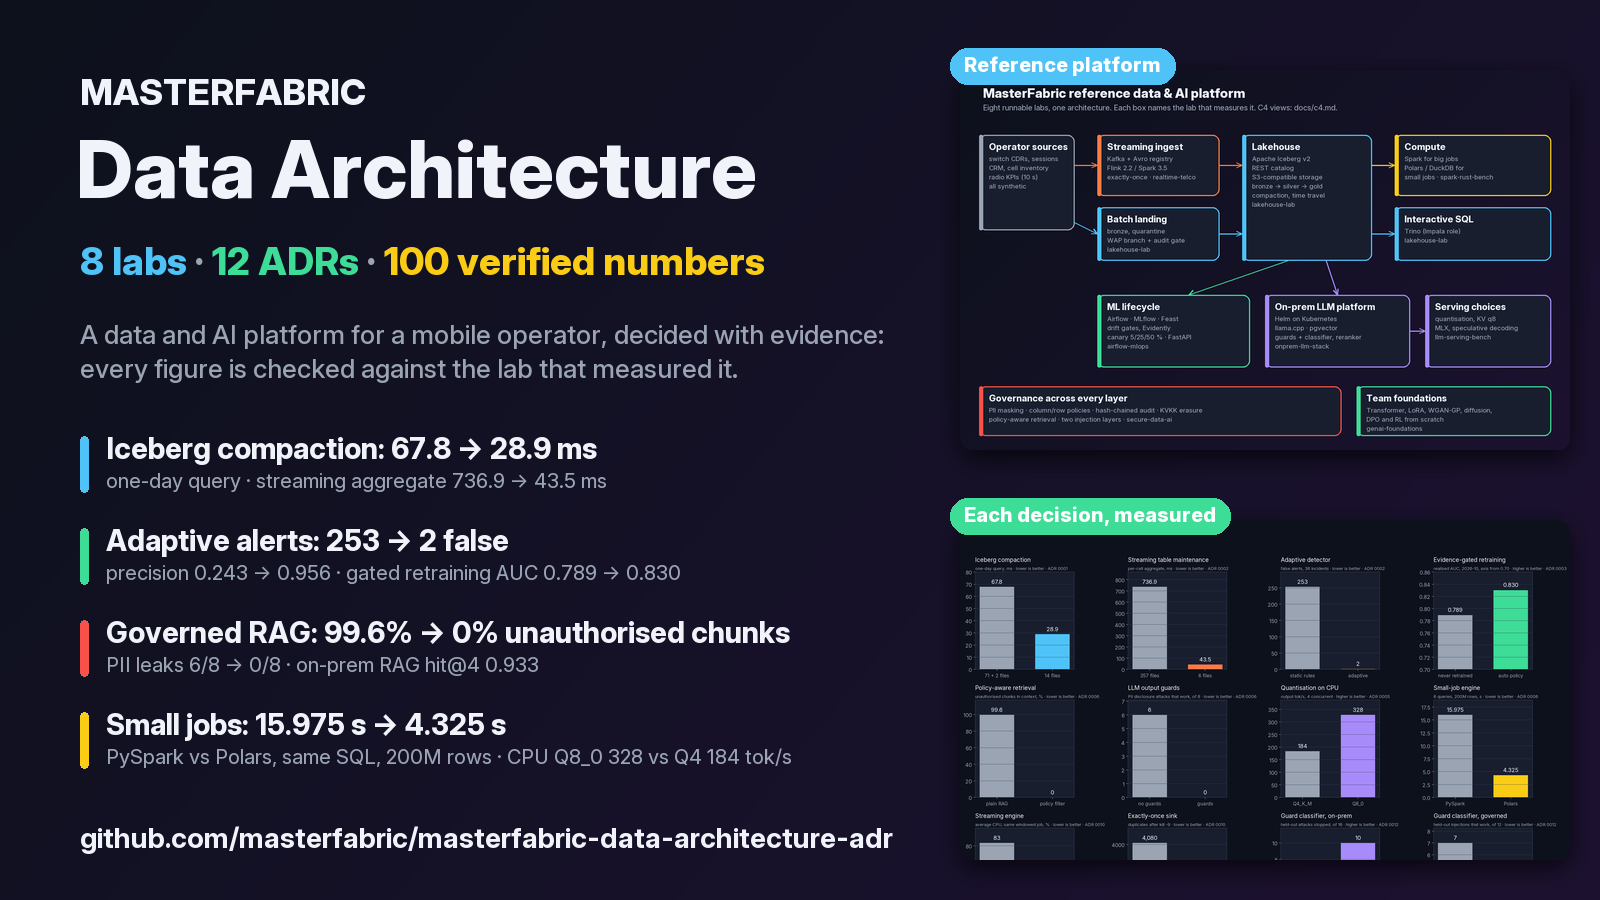
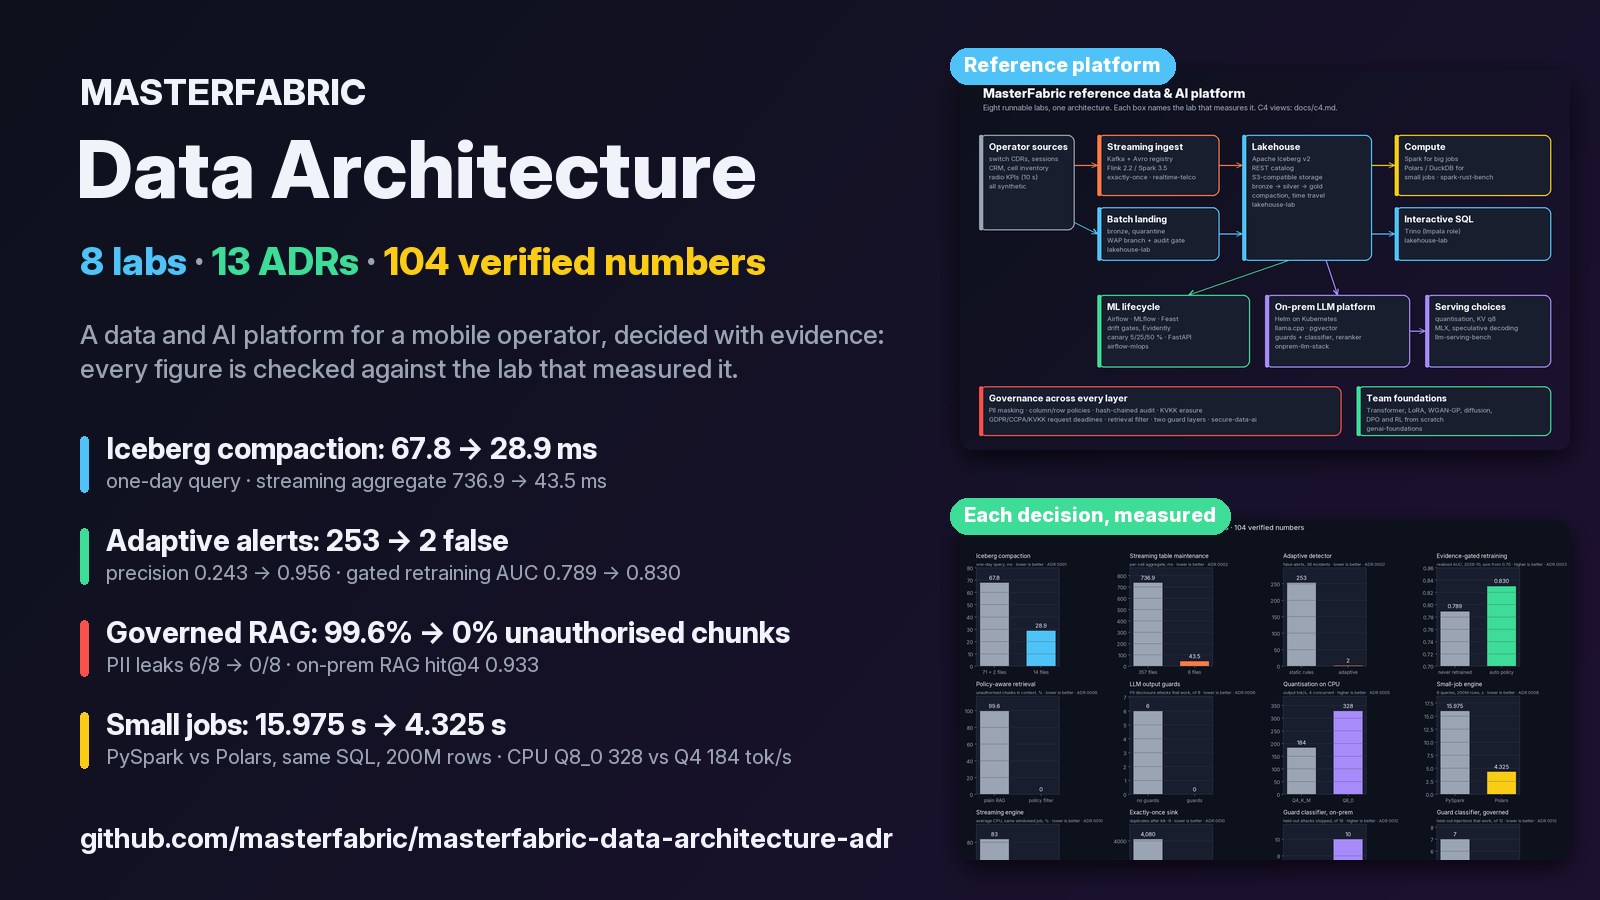
charts: evidence panel for ADR 0013, counts in the title; hero with 13 ADRs and 104 verified numbers

diff --git a/viz/make_charts.py b/viz/make_charts.py
@@ -38,6 +38,8 @@ PANELS = [
      "+ classifier", C["op_heldout"]["classifier"], False, "ADR 0012", "PURPLE"),
     ("Guard classifier, governed", "held-out injections that work, of 12", "rules", C["sd_heldout"]["before"],
      "+ classifier", C["sd_heldout"]["after"], True, "ADR 0012", "RED"),
+    ("Request deadline rule (GDPR)", "receipt dates off the calendar-month due date, of 731", "flat 30 days",
+     C["sd_dsr_flat30"]["flat30_differs"], "rule table", 0, True, "ADR 0013", "RED"),
 ]
 
 
@@ -48,7 +50,10 @@ def fmt(v):
 
 
 def evidence():
-    fig, axes = plt.subplots(3, 4, figsize=(18, 12.4))
+    rows = -(-len(PANELS) // 4)
+    fig, axes = plt.subplots(rows, 4, figsize=(18, 4.13 * rows))
+    for a in axes.flat[len(PANELS):]:
+        a.axis("off")
     for a, (title, unit, l0, v0, l1, v1, lower, adr, col) in zip(axes.flat, PANELS):
         bars = a.bar([0, 1], [v0, v1], 0.62, color=[HEX["GREY"], HEX[col]])
         top = max(v0, v1)
@@ -66,9 +71,11 @@ def evidence():
         if not title.startswith("Evidence"):
             a.set_ylim(0, top * 1.18)
         a.grid(axis="x", visible=False)
-    fig.suptitle("Each decision, measured: the same metric without it (grey) and with it", x=0.01, ha="left",
+    n_adr = len(list((ROOT / "docs" / "adr").glob("0*.md")))
+    fig.suptitle(f"Each decision, measured: the same metric without it (grey) and with it · {n_adr} ADRs · "
+                 f"{len(json.loads((ROOT / 'evidence' / 'claims.json').read_text())['claims'])} verified numbers", x=0.01, ha="left",
                  fontsize=15, fontweight="bold", color=HEX["WHITE"])
-    fig.tight_layout(rect=(0, 0, 1, 0.95))
+    fig.tight_layout(rect=(0, 0, 1, 1 - 0.05 * 3 / rows))
     fig.savefig(IMG / "evidence.png", dpi=150)
 
 
@@ -167,7 +174,7 @@ def cost():
 
 
 if __name__ == "__main__":
-    evidence()
-    cost()
-    round2()
+    import sys
+    for name in sys.argv[1:] or ["evidence", "cost", "round2"]:
+        globals()[name]()
     print("chart written")
